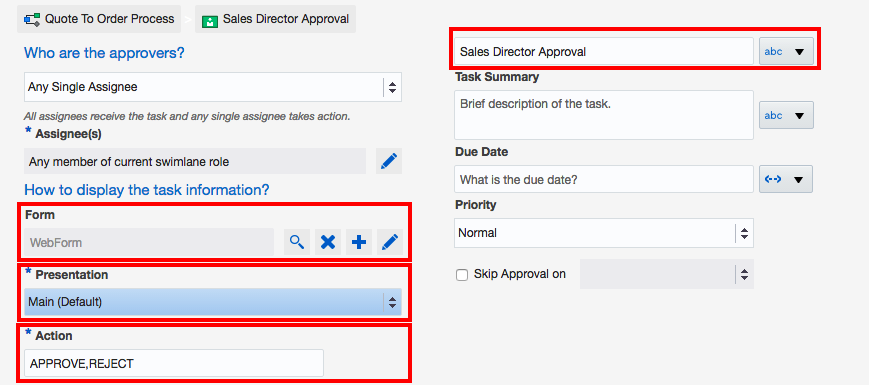
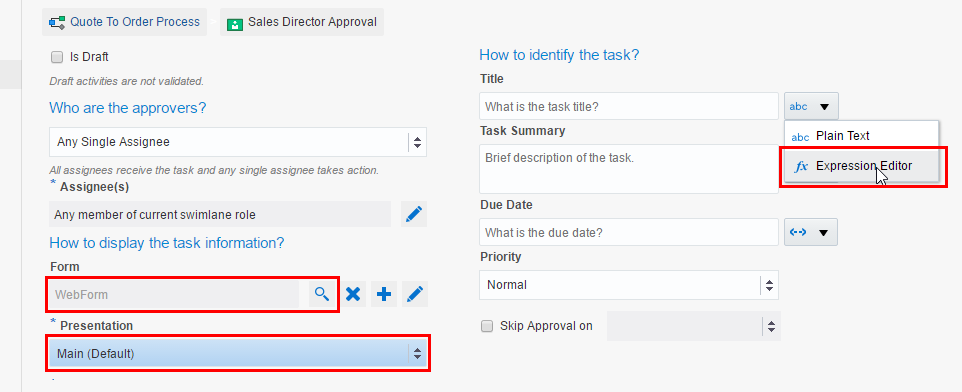
Changes to lab 200 section 6

diff --git a/touch-the-cloud/TouchTheCloud200.md b/touch-the-cloud/TouchTheCloud200.md
@@ -352,7 +352,7 @@ For clarity :
 
 ![](images/200/Picture42c.png)
 
-**6.9** When the quote total is between $5000 and $10000 we still want the Sales Manager to approve the order.  In order to implement this behavior, we only have to make a slight adjustment to the conditional branch to the Sales Manager.  Click on the line between **Approval** and **Approve Order** then select the pencil icon so we can modify the condition.
+**6.9** When the quote total is between $5000 and $10000 we still want the Sales Manager to approve the order.  In order to implement this behavior, we only have to make a slight adjustment to the conditional branch to the Sales Manager's approval **Approve Order**.  Click on the line between **Approval** and **Approve Order** then select the pencil icon so we can modify the condition.
 
 ![](images/200/Picture42d.png)
 
@@ -362,7 +362,7 @@ For clarity :
 
 ![](images/200/Picture42e.png)
 
-**6.12** Next, select the new activity, and change the name, by double clicking on the text **User Task**
+**6.12** Next, select the new activity in the **Sales Manager** swim lane and change the name by double clicking on the text **User Task**
 
 ![](images/200/Picture44.png)
 
@@ -370,21 +370,35 @@ For clarity :
 
 ![](images/200/Picture45.png)
 
-**6.14** Fill in `Form`, `Presentation`, `Action` and `Title`
+**6.14** Fill in `Form`, `Presentation`, and `Action` as shown in the picture below.
+
+In order to set the `Form`, select the magnifying glass icon, then select the already existing _WebForm_
+
+Note that the `Presentation` will probably already be set to _Main_ and that the `Action` will probably already be set to _APPROVE,REJECT_
+
+**6.15** For the `Title` property, select the pulldown just to the right of the textbox and select `Expression Editor`
 
 ![](images/200/Picture46.png)
 
-**6.9** Drag an exclusive gateway into the model just after the **Sales Director Approval**, connect the human task **Sales Director Approval** with the gateway, then the gateway to the **Capture Order**, using the connector icon to create the connections
+**6.16** In the textarea for the expression, enter `WebForm.mcs_id + " - Sales Director Approval"`
+
+**6.17** After entering the expression, select the **Validate** button to ensure it was copied correctly.
+
+**6.18** After validating the condition, select the `OK` button to save the condition
+
+![](images/200/Picture46a.png)
+
+**6.19** Next, drag an exclusive gateway into the model just after the **Sales Director Approval**, connect the human task **Sales Director Approval** with the gateway, then the gateway to the **Capture Order**, using the connector icon to create the connections
 
 ![](images/200/Picture47.png)
 
 ![](images/200/Picture48.png)
 
-**6.10** Connect the gateway to the **Not Approved end** activity. Feel free to move the activities around to make it more readable
+**6.20** Connect the gateway to the **Not Approved end** activity. Feel free to move the activities around to make it more readable
 
 ![](images/200/Picture49.png)
 
-**6.11** With Connection highlighted, edit the properties and supply the following information, to test if the approval was rejected, by setting the condition to be **TaskOutcomeDataObject == "REJECT"**.
+**6.21** With Connection highlighted, edit the properties and supply the following information, to test if the approval was rejected, by setting the condition to be **TaskOutcomeDataObject == "REJECT"**.
 
 ![](images/200/Picture50.png)
 
